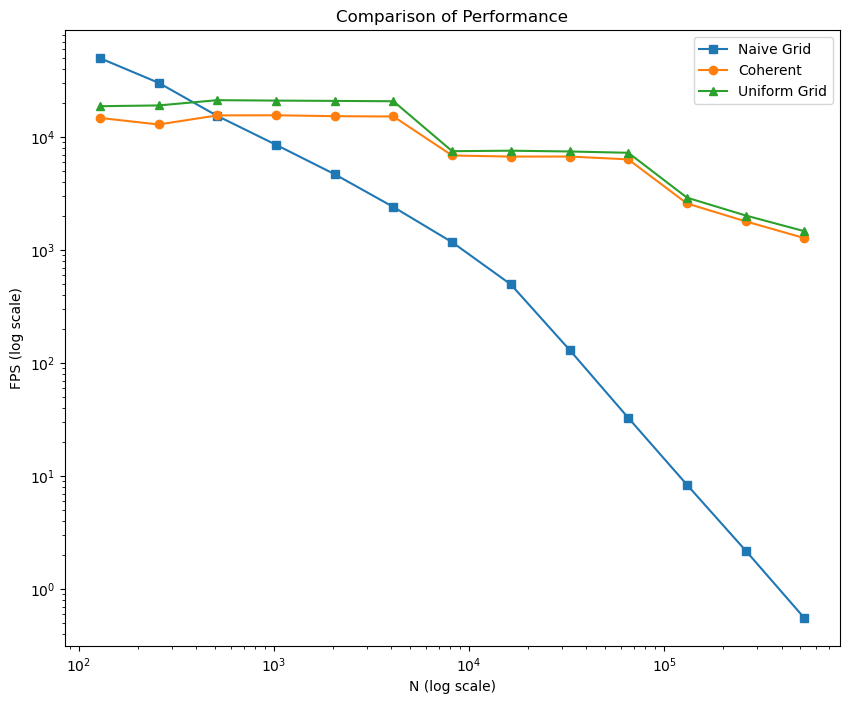
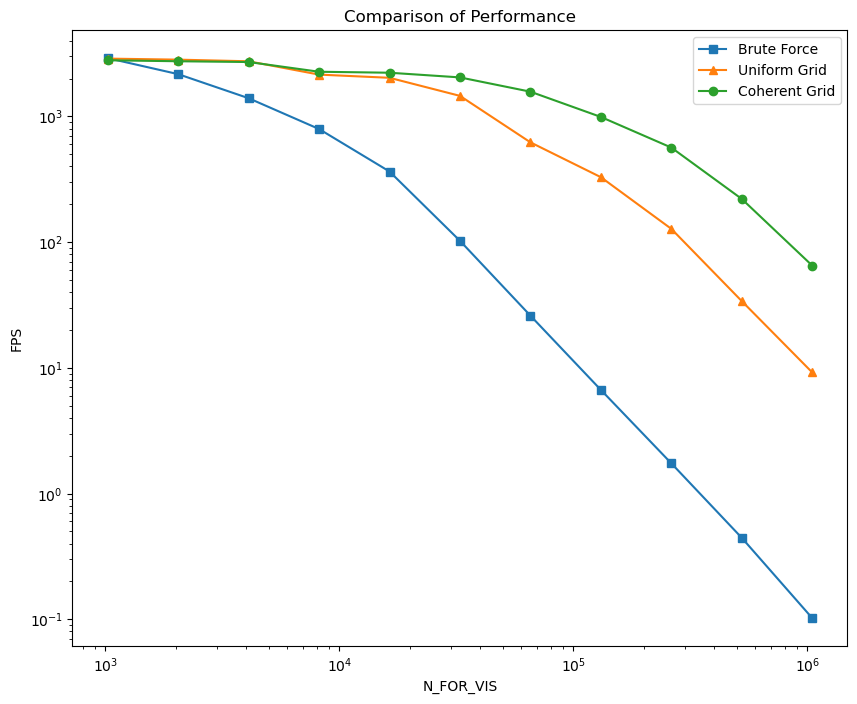
update results

diff --git a/Project1-CUDA-Flocking/src/main.cpp b/Project1-CUDA-Flocking/src/main.cpp
@@ -13,27 +13,18 @@
 // ================
 
 // LOOK-2.1 LOOK-2.3 - toggles for UNIFORM_GRID and COHERENT_GRID
-#define VISUALIZE 0
-#define UNIFORM_GRID 0
-#define COHERENT_GRID 0
+// #define VISUALIZE 1
+#define UNIFORM_GRID 1
+#define COHERENT_GRID 1
+
 
 // LOOK-1.2 - change this to adjust particle count in the simulation
 
-const int N_FOR_VIS = 128;
+int N_FOR_VIS = 65536;
+bool save = false;
+bool visualize = false;
 const float DT = 0.2f;
-void cleanup() {
-    cudaGLUnmapBufferObject(boidVBO_positions);
-    cudaGLUnmapBufferObject(boidVBO_velocities);
-    cudaGLUnregisterBufferObject(boidVBO_positions);
-    cudaGLUnregisterBufferObject(boidVBO_velocities);
 
-    glDeleteBuffers(1, &boidVBO_positions);
-    glDeleteBuffers(1, &boidVBO_velocities);
-    glDeleteBuffers(1, &boidIBO);
-    glDeleteVertexArrays(1, &boidVAO);
-}
-
-void dataset() {
 
 #if UNIFORM_GRID && COHERENT_GRID
     const std::string filename = "coherent_grid.txt";
@@ -42,41 +33,6 @@ void dataset() {
 #else
     const std::string filename = "naive.txt";
 #endif
-
-    std::ofstream ofs(filename, std::ofstream::out);
-    if (!ofs.is_open()) {
-        std::cerr << "Error: Could not open file " << filename << std::endl;
-    }
-    ofs << "N, FPS" << std::endl;
-
-    for (int count = 128; count < 1000000; count <<= 1) {
-        Boids::initSimulation(count);
-        auto time_base = std::chrono::high_resolution_clock::now();
-        auto time = std::chrono::high_resolution_clock::now();
-        float ms = 0.0f;
-        float fps;
-        int frame = 0;
-        do {
-#if UNIFORM_GRID && COHERENT_GRID
-            Boids::stepSimulationCoherentGrid(DT);
-#elif UNIFORM_GRID
-            Boids::stepSimulationScatteredGrid(DT);
-#else
-            Boids::stepSimulationNaive(DT);
-#endif
-            cudaDeviceSynchronize();
-            frame++;
-            time = std::chrono::high_resolution_clock::now();
-            ms = std::chrono::duration_cast<std::chrono::milliseconds>(time - time_base).count();
-        } while (ms < 5000 || frame < 20);
-        fps = frame * 1000.0f / ms;
-        ofs << count << ", " << fps << std::endl;
-        std::cout << "N = " << count << ", FPS = " << fps << std::endl;
-        Boids::endSimulation();
-    }
-    ofs.close();
-}
-
 /**
  * C main function.
  */
@@ -85,7 +41,6 @@ int main(int argc, char *argv[]) {
 	if (init(argc, argv)) {
 		mainLoop();
 		Boids::endSimulation();
-		cleanup();
 	} else {
 		return 1;
 	}	
@@ -103,6 +58,19 @@ bool stop = false;
  * Initialization of CUDA and GLFW.
  */
 bool init(int argc, char **argv) {
+    for (int i = 1; i < argc; ++i) {
+        if (std::string(argv[i]) == "--save" || std::string(argv[i]) == "-s") {
+            save = true;
+        }
+        if (std::string(argv[i]) == "--vis" || std::string(argv[i]) == "-v") {
+            visualize = true;
+        }
+        if (std::string(argv[i]) == "--num" || std::string(argv[i]) == "-n") {
+            N_FOR_VIS = std::stoi(argv[i + 1]);
+            i++;
+        }
+    }
+
     // Set window title to "Student Name: [SM 2.0] GPU Name"
     cudaDeviceProp deviceProp;
     int gpuDevice = 0;
@@ -258,9 +226,9 @@ void runCUDA() {
     Boids::stepSimulationNaive(DT);
 #endif
 
-#if VISUALIZE
-    Boids::copyBoidsToVBO(dptrVertPositions, dptrVertVelocities);
-#endif
+    if(visualize){
+        Boids::copyBoidsToVBO(dptrVertPositions, dptrVertVelocities);
+    }
     // unmap buffer object
     cudaGLUnmapBufferObject(boidVBO_positions);
     cudaGLUnmapBufferObject(boidVBO_velocities);
@@ -268,13 +236,18 @@ void runCUDA() {
 
 void mainLoop() {
     double fps = 0;
-    double timebase = 0;
+    double timebase = glfwGetTime();
     int frame = 0;
+    int fps_count = 0;
+    double fps_sum = 0;
+    int fps_samples = 10;  // Number of FPS samples to average
+    int start_sample = 5;
+    if(!save){
+        start_sample = 0;
+        fps_samples = 100000;
+    }
 
-    // Boids::unitTest(); // LOOK-1.2 We run some basic example code to make sure
-    // your CUDA development setup is ready to go.
-
-    while (!glfwWindowShouldClose(window)) {
+    while (!glfwWindowShouldClose(window) && fps_count < fps_samples) {
         glfwPollEvents();
 
         frame++;
@@ -282,6 +255,9 @@ void mainLoop() {
 
         if (time - timebase > 1.0) {
             fps = frame / (time - timebase);
+            if(fps_count > start_sample)
+                fps_sum += fps;
+            fps_count++;
             timebase = time;
             frame = 0;
         }
@@ -300,19 +276,30 @@ void mainLoop() {
 
         glClear(GL_COLOR_BUFFER_BIT | GL_DEPTH_BUFFER_BIT);
 
-#if VISUALIZE
-        glUseProgram(program[PROG_BOID]);
-        glBindVertexArray(boidVAO);
-        glPointSize((GLfloat)pointSize);
-        glDrawElements(GL_POINTS, N_FOR_VIS + 1, GL_UNSIGNED_INT, 0);
-        glPointSize(1.0f);
+        if(visualize){
+            glUseProgram(program[PROG_BOID]);
+            glBindVertexArray(boidVAO);
+            glPointSize((GLfloat)pointSize);
+            glDrawElements(GL_POINTS, N_FOR_VIS, GL_UNSIGNED_INT, 0);
+            glPointSize(1.0f);
 
-        glUseProgram(0);
-        glBindVertexArray(0);
+            glUseProgram(0);
+            glBindVertexArray(0);
 
-        glfwSwapBuffers(window);
-#endif
+            glfwSwapBuffers(window);
+        }
     }
+    double average_fps = fps_sum /(fps_count - start_sample);
+    if(save){
+        std::ofstream fpsFile;
+        fpsFile.open(filename, std::ios::app);
+        if (fps_count > 0) {
+            fpsFile << N_FOR_VIS << "," << average_fps << "\n";  // 写入粒子数和平均FPS值
+        }
+
+        fpsFile.close();  // 关闭文件
+    }
+    std::cout << "N = " << N_FOR_VIS << ", FPS = " << average_fps << std::endl;
     glfwDestroyWindow(window);
     glfwTerminate();
 }

diff --git a/Project1-CUDA-Flocking/README.md b/Project1-CUDA-Flocking/README.md
@@ -2,11 +2,31 @@
 Project 1 - Flocking**
 
 * Runze Wang
-* Tested on: Windows 22, VS2022, CUDA12.2, GeForce1650
+* Tested on: Windows 22, VS2019, CUDA12.2, RTX4060
 
 This project is a CUDA implementation of Boid, an artificial life program that simulates fishes or birds’ flocking behaviors. The simulation is visualized by OpenGL.
 
 <img src="assets/flocking.gif" style="zoom:50%;" />
+
+## Installation from Source
+
+```sh
+cmake -Bbuild .
+cmake --build build --config Release
+.\install\bin\Release\cis565_boids.exe -v
+```
+
+<details>
+<summary><span style="font-weight: bold;">Command Line Arguments for full_eval.py</span></summary>
+
+  #### --save/ -s
+  Flag to test num and fps, and save to files  (Default false)
+  #### --vis/ -v
+  Flag to visualize the simulation (Default false)
+  #### --num/ -n
+  Set the number of simulation
+</details>
+<br>
 
 ## Introduction: Flocking Simulation
 
@@ -22,16 +42,26 @@ The objective of this project would be to build a flocking simulation using CUDA
 
 ## Algorithm: CUDA Acceleration
 
-The simulation is based on  the **Reynolds Boids algorithm**, along with three levels of optimization. More details is in [INSTRUCTION](./INSTRUCTION.md).
+The simulation is based on  the **Reynolds Boids algorithm**, along with three levels of optimization. More details is in [INSTRUCTION](./INSTRUCTION.md). If you want to change the algorithm for flocking simulation, you need to set `UNIFORM_GRID` and `COHERENT_GRID` in [**src/main.cpp**](./src/main.cpp) .
+
+<img src="assets/output.png" style="zoom:67%;" />
+
+### Brute Force
 
 - ping-pong buffers: **avoid read & write conflict and hide latency with the SIMT of CUDA.**
   - While one buffer provides output, the other buffer can be written asynchronously. 
   - Switch over when required.
+
+### Uniform Grid
+
 - uniform spatial grid: **avoid global loop for checking every other boid.**
   - Label every boid with an index key representing its enclosing cell.
   - Sort the key & value array.
   - Create the start & end array representing the border of the two different cells.
   - `thrust::sort_by_key`: sorting the value based on the key.
+
+### Coherent Grid
+
 - semi-coherent memory access: **spatial locality that lead load data to the warp chuck by chuck.**
   -  Rearranging the boid data so that all the velocities and positions of boids in one cell are also contiguous in memory. As the SM execute a warp, the data nearby will be loaded  at the same time.
   -  `thrust::gather`：rearranging  the data according to index buffer.
